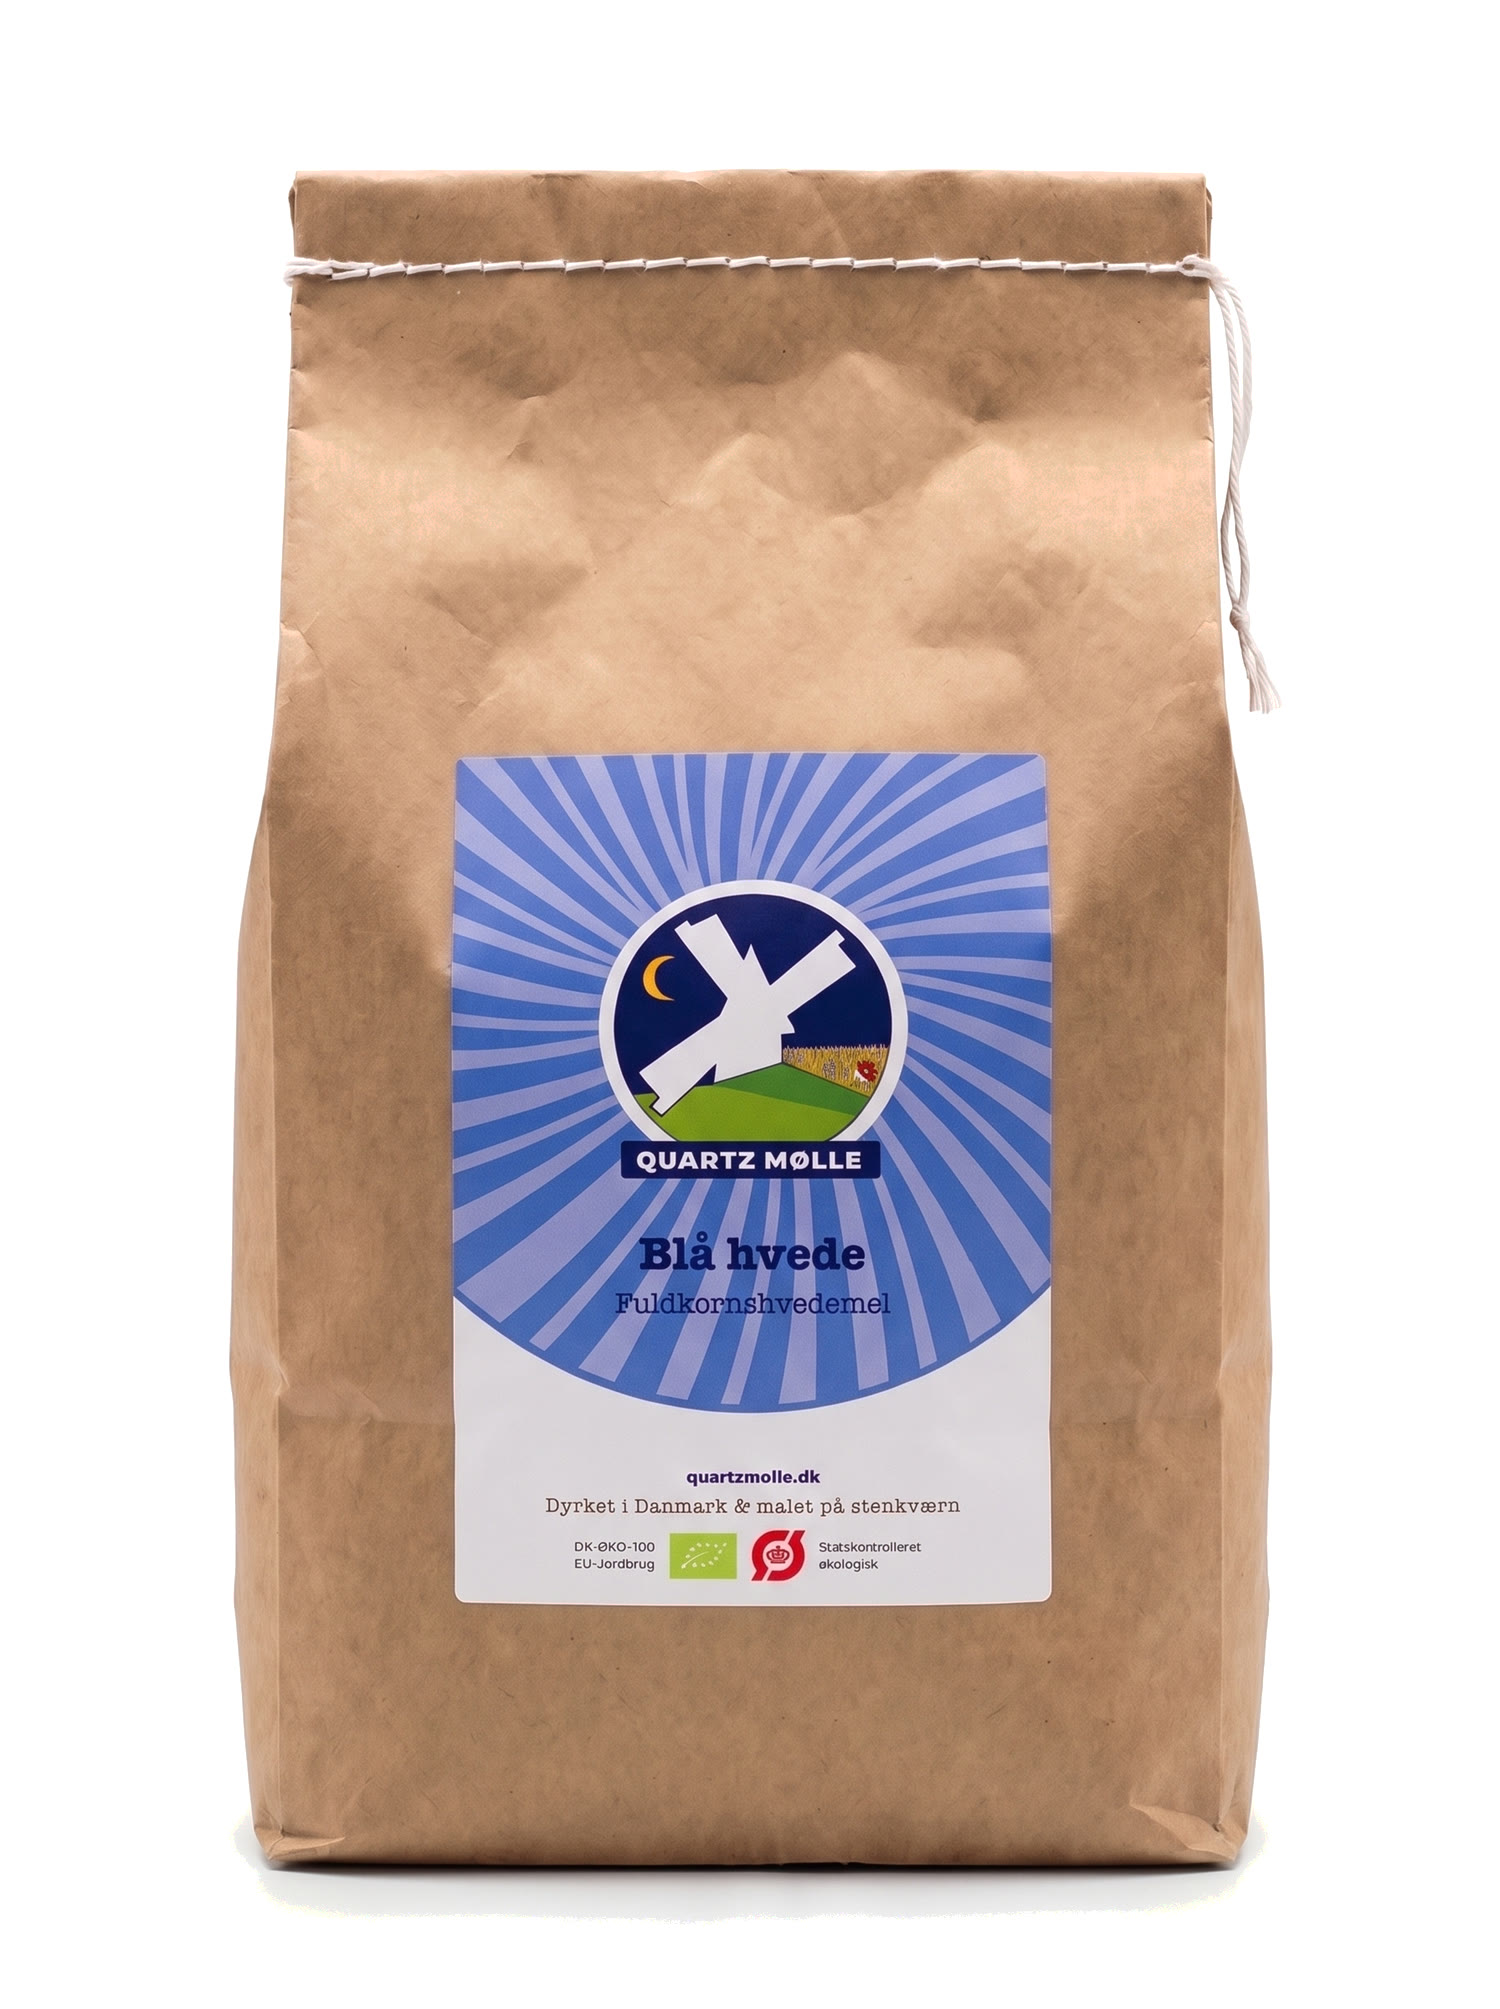
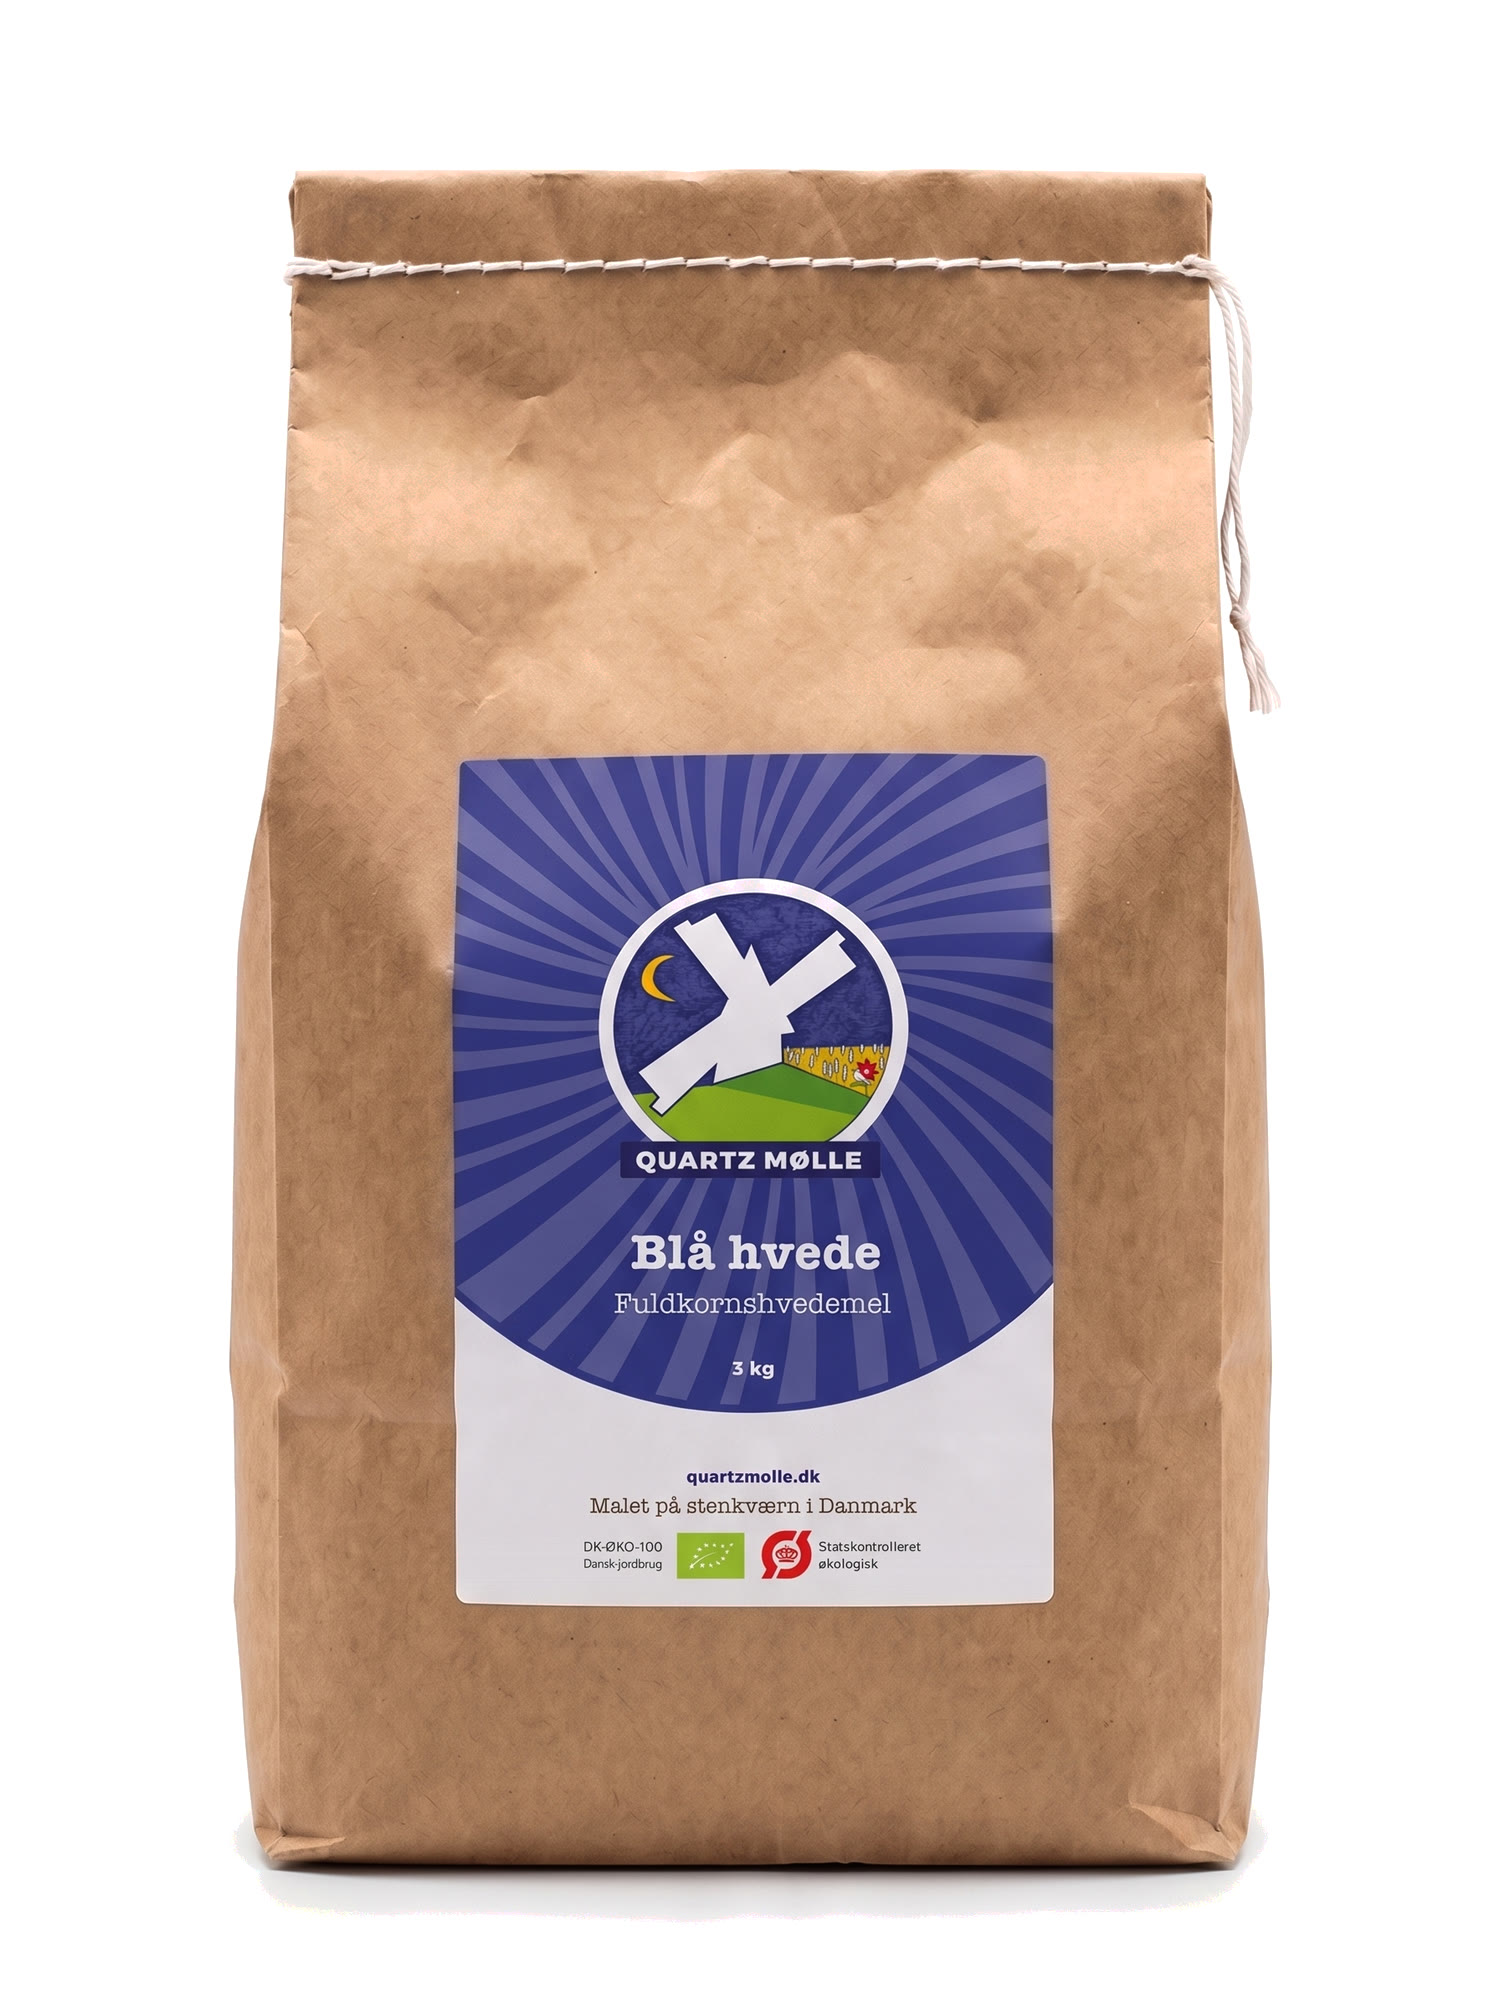
Blå hvede: rigtige labels (3 kg / 12,5 kg) som størrelsesbilleder + posefoto med det rigtige label
- images/blaahvede_3kg.jpg, images/blaahvede_12_5kg.jpg: de officielle
  label-tegninger (uden bindestreger i navnet, så upload fra telefon ikke
  ændrer dem)
- images/pose-bla-hvede-fuldkorn.jpg: posefoto genereret med det rigtige
  3 kg-label som reference (indigo, hvidt navn, ny bundtekst)
- js/products.js: weight.image → labels, altImage → 3 kg-label (galleri)
- shoptest.mjs: galleri-tjek (10/10)

Claude-Session: https://claude.ai/code/session_0135uKpqNuLcqQpAC8wtHGQK

Changed region(s): [[0.276, 0.3703, 0.7053, 0.8024], [0.368, 0.7407, 0.6133, 0.8024]]

diff --git a/js/products.js b/js/products.js
@@ -267,6 +267,7 @@ const PRODUCTS = [
     type: 'Fuldkornshvedemel',
     color: '#2f5bff',
     previewImage: 'images/pose-bla-hvede-fuldkorn.jpg',
+    altImage: 'images/blaahvede_3kg.jpg',
     description: 'Blå hvede er en sjælden hvedesort, hvis kerner har et blåligt skær fra naturlige farvestoffer (anthocyaniner) i kernens yderste lag. Fuldkornsmelet har en nøddeagtig, let sødlig smag og giver saftige, karakterfulde brød – oplagt til surdejsbrød, boller og grovbrød.',
     certifications: ['DK-ØKO-100', 'Dansk jordbrug', 'EU-jordbrug', 'Statskontrolleret Økologisk'],
     origin: 'Dyrket i Norden & malet på stenkværn',
@@ -278,8 +279,8 @@ const PRODUCTS = [
       salt: '0,01 g'
     },
     weights: [
-      { label: '3 kg', price: 122, image: 'images/pose-bla-hvede-fuldkorn.jpg' },
-      { label: '12,5 kg', price: 350, image: 'images/pose-bla-hvede-fuldkorn.jpg' }
+      { label: '3 kg', price: 122, image: 'images/blaahvede_3kg.jpg' },
+      { label: '12,5 kg', price: 350, image: 'images/blaahvede_12_5kg.jpg' }
     ]
   }
 ];
